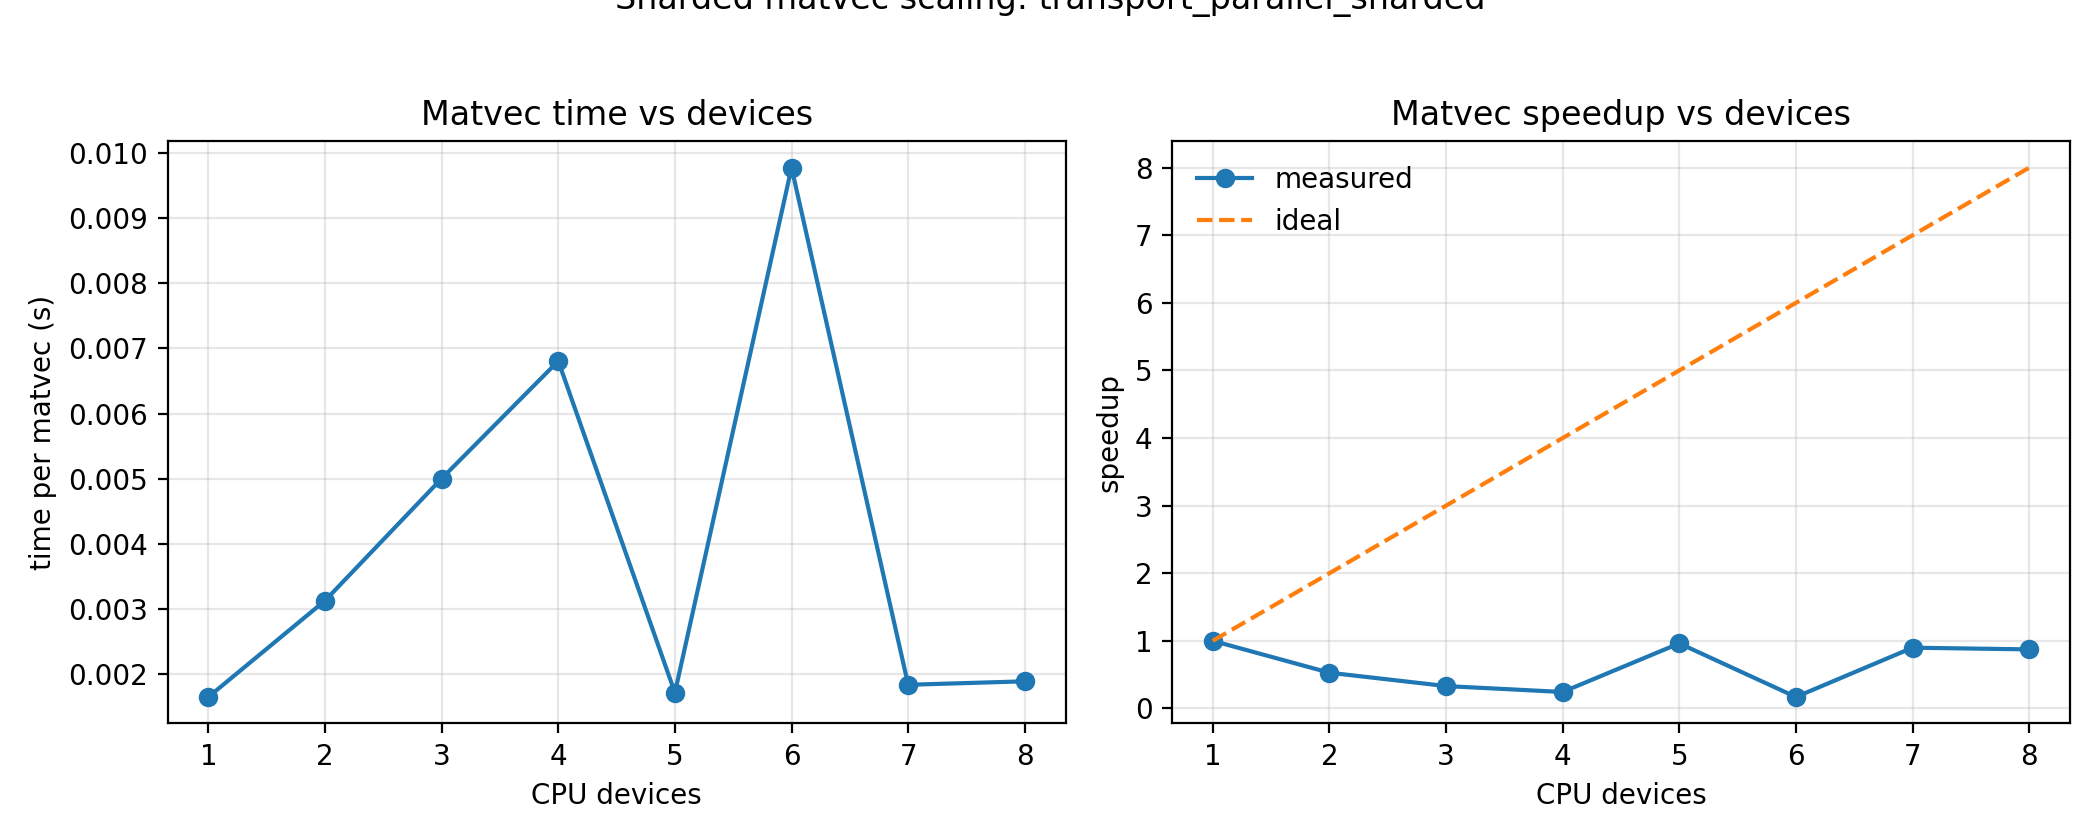
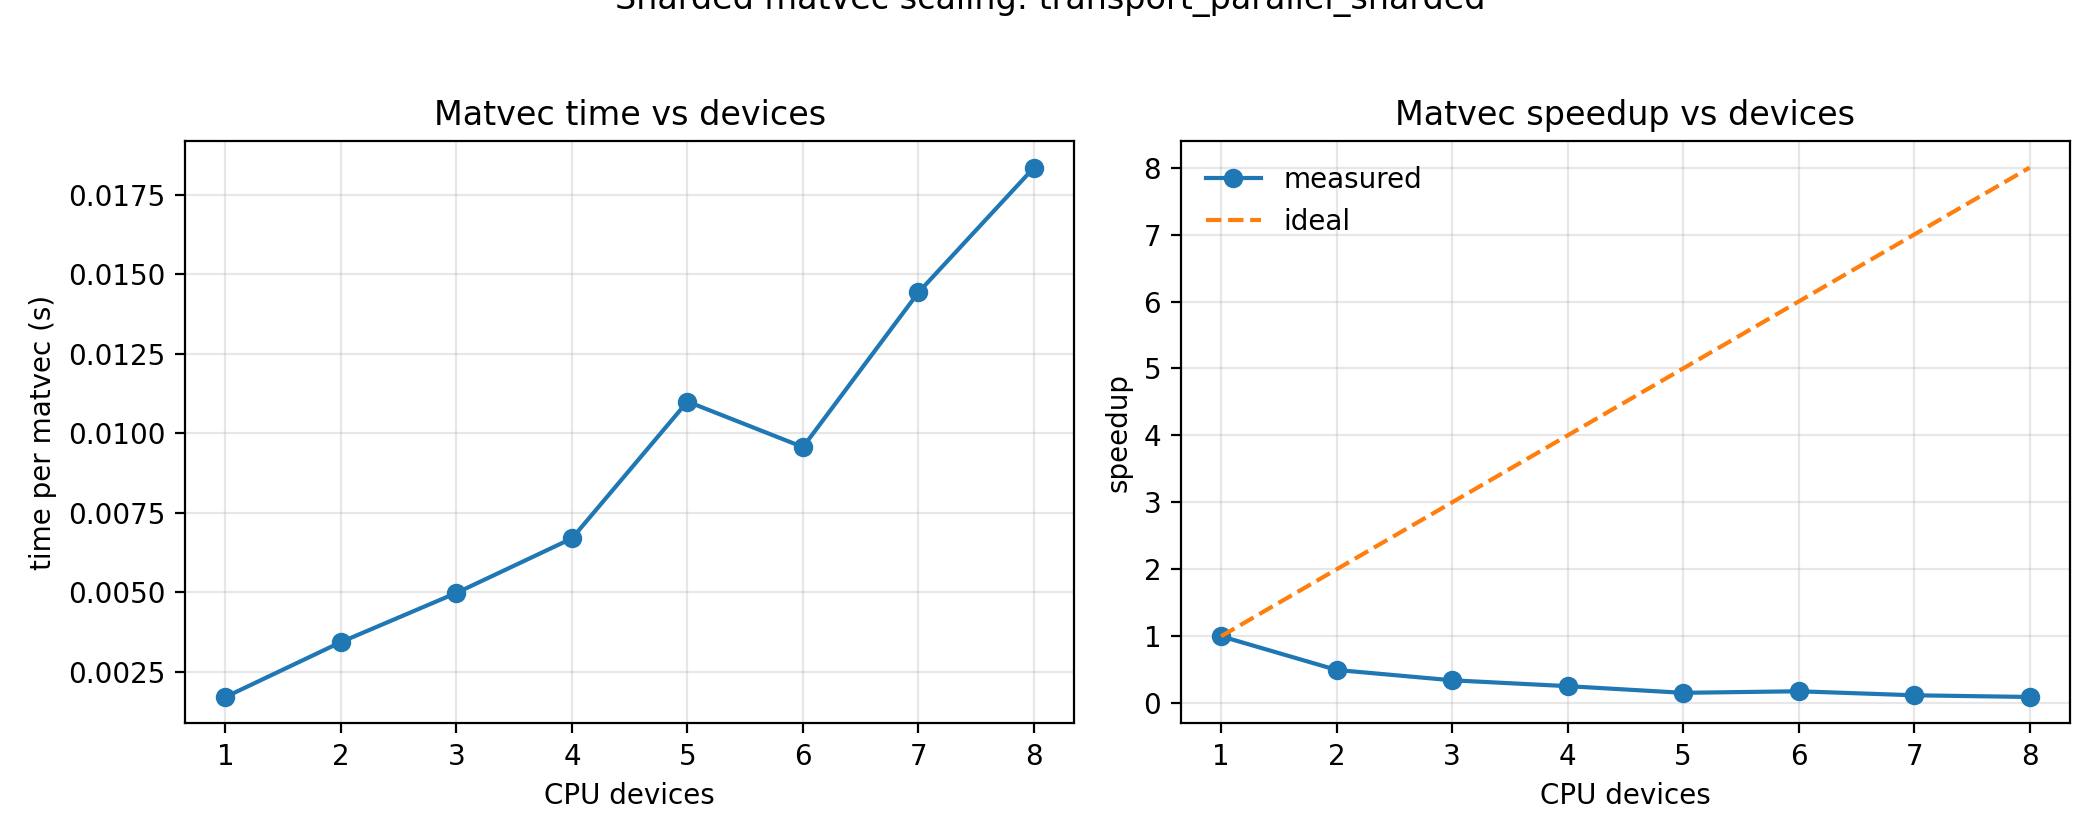
Enable x-axis sharding padding and update scaling

diff --git a/sfincs_jax/v3_system.py b/sfincs_jax/v3_system.py
@@ -36,6 +36,11 @@ from .magnetic_drifts import (
     MagneticDriftZetaV3Operator,
     MagneticDriftXiDotV3Operator,
 )
+from .collisions import (
+    PitchAngleScatteringV3Operator,
+    FokkerPlanckV3Operator,
+    FokkerPlanckV3Phi1Operator,
+)
 from .v3_fblock import V3FBlockOperator, apply_v3_fblock_operator, fblock_operator_from_namelist
 from .vmec_wout import psi_a_hat_from_wout, read_vmec_wout, vmec_interpolation
 
@@ -919,6 +924,14 @@ def _pad_2d(arr: jnp.ndarray, *, axis: str, pad: int, fill: float = 0.0) -> jnp.
     return arr
 
 
+def _pad_x_1d(arr: jnp.ndarray, pad: int, *, fill: float = 0.0) -> jnp.ndarray:
+    return _pad_1d(arr, pad, fill=fill)
+
+
+def _pad_x_square(arr: jnp.ndarray, pad: int) -> jnp.ndarray:
+    return _pad_square(arr, pad)
+
+
 def _pad_collisionless(op: CollisionlessV3Operator, *, axis: str, pad: int) -> CollisionlessV3Operator:
     if pad <= 0:
         return op
@@ -941,6 +954,12 @@ def _pad_collisionless(op: CollisionlessV3Operator, *, axis: str, pad: int) -> C
             b_hat_sup_zeta=_pad_2d_zeta(op.b_hat_sup_zeta, pad, fill=0.0),
             db_hat_dtheta=_pad_2d_zeta(op.db_hat_dtheta, pad, fill=0.0),
             db_hat_dzeta=_pad_2d_zeta(op.db_hat_dzeta, pad, fill=0.0),
+        )
+    if axis == "x":
+        return replace(
+            op,
+            x=_pad_x_1d(op.x, pad, fill=1.0),
+            n_xi_for_x=_pad_x_1d(op.n_xi_for_x, pad, fill=0),
         )
     return op
 
@@ -1084,6 +1103,8 @@ def _pad_magdrift_xidot(
             db_hat_sub_theta_dpsi_hat=_pad_2d_zeta(op.db_hat_sub_theta_dpsi_hat, pad, fill=0.0),
             db_hat_sub_psi_dtheta=_pad_2d_zeta(op.db_hat_sub_psi_dtheta, pad, fill=0.0),
         )
+    if axis == "x":
+        return replace(op, n_xi_for_x=_pad_x_1d(op.n_xi_for_x, pad, fill=0))
     return op
 
 
@@ -1110,6 +1131,8 @@ def _pad_er_xidot(op: ErXiDotV3Operator, *, axis: str, pad: int) -> ErXiDotV3Ope
             db_hat_dtheta=_pad_2d_zeta(op.db_hat_dtheta, pad, fill=0.0),
             db_hat_dzeta=_pad_2d_zeta(op.db_hat_dzeta, pad, fill=0.0),
         )
+    if axis == "x":
+        return replace(op, n_xi_for_x=_pad_x_1d(op.n_xi_for_x, pad, fill=0))
     return op
 
 
@@ -1139,6 +1162,42 @@ def _pad_er_xdot(op: ErXDotV3Operator, *, axis: str, pad: int) -> ErXDotV3Operat
     return op
 
 
+def _pad_pas(op: PitchAngleScatteringV3Operator, pad: int) -> PitchAngleScatteringV3Operator:
+    if pad <= 0:
+        return op
+    return replace(
+        op,
+        nu_d_hat=jnp.pad(op.nu_d_hat, ((0, 0), (0, pad)), constant_values=0.0),
+        n_xi_for_x=_pad_x_1d(op.n_xi_for_x, pad, fill=0),
+        coef=jnp.pad(op.coef, ((0, 0), (0, pad), (0, 0)), constant_values=0.0),
+        mask_xi=jnp.pad(op.mask_xi, ((0, pad), (0, 0)), constant_values=0.0),
+    )
+
+
+def _pad_fp(op: FokkerPlanckV3Operator, pad: int) -> FokkerPlanckV3Operator:
+    if pad <= 0:
+        return op
+    return replace(
+        op,
+        mat=jnp.pad(op.mat, ((0, 0), (0, 0), (0, 0), (0, pad), (0, pad)), constant_values=0.0),
+        n_xi_for_x=_pad_x_1d(op.n_xi_for_x, pad, fill=0),
+        mask_xi=jnp.pad(op.mask_xi, ((0, pad), (0, 0)), constant_values=0.0),
+    )
+
+
+def _pad_fp_phi1(op: FokkerPlanckV3Phi1Operator, pad: int) -> FokkerPlanckV3Phi1Operator:
+    if pad <= 0:
+        return op
+    return replace(
+        op,
+        k_nu=jnp.pad(op.k_nu, ((0, 0), (0, 0), (0, pad)), constant_values=0.0),
+        k_cd=jnp.pad(op.k_cd, ((0, 0), (0, 0), (0, pad), (0, pad)), constant_values=0.0),
+        k_ce=jnp.pad(op.k_ce, ((0, 0), (0, 0), (0, pad), (0, pad)), constant_values=0.0),
+        k_rosen=jnp.pad(op.k_rosen, ((0, 0), (0, 0), (0, 0), (0, pad), (0, pad)), constant_values=0.0),
+        n_xi_for_x=_pad_x_1d(op.n_xi_for_x, pad, fill=0),
+    )
+
+
 def _pad_fblock_operator(
     op: V3FBlockOperator, *, axis: str, pad: int
 ) -> V3FBlockOperator:
@@ -1158,8 +1217,12 @@ def _pad_fblock_operator(
     )
     er_xidot = _pad_er_xidot(op.er_xidot, axis=axis, pad=pad) if op.er_xidot is not None else None
     er_xdot = _pad_er_xdot(op.er_xdot, axis=axis, pad=pad) if op.er_xdot is not None else None
+    pas = _pad_pas(op.pas, pad) if (axis == "x" and op.pas is not None) else op.pas
+    fp = _pad_fp(op.fp, pad) if (axis == "x" and op.fp is not None) else op.fp
+    fp_phi1 = _pad_fp_phi1(op.fp_phi1, pad) if (axis == "x" and op.fp_phi1 is not None) else op.fp_phi1
     n_theta = int(op.n_theta + pad) if axis == "theta" else int(op.n_theta)
     n_zeta = int(op.n_zeta + pad) if axis == "zeta" else int(op.n_zeta)
+    n_x = int(op.n_x + pad) if axis == "x" else int(op.n_x)
     return replace(
         op,
         collisionless=collisionless,
@@ -1170,6 +1233,10 @@ def _pad_fblock_operator(
         magdrift_xidot=magdrift_xidot,
         er_xidot=er_xidot,
         er_xdot=er_xdot,
+        pas=pas,
+        fp=fp,
+        fp_phi1=fp_phi1,
+        n_x=n_x,
         n_theta=n_theta,
         n_zeta=n_zeta,
     )
@@ -1188,6 +1255,9 @@ def _pad_full_system_operator(op: V3FullSystemOperator, *, axis: str, pad: int) 
     fblock = _pad_fblock_operator(op.fblock, axis=axis, pad=pad)
     theta_weights = _pad_1d(op.theta_weights, pad, fill=0.0) if axis == "theta" else op.theta_weights
     zeta_weights = _pad_1d(op.zeta_weights, pad, fill=0.0) if axis == "zeta" else op.zeta_weights
+    x = _pad_x_1d(op.x, pad, fill=1.0) if axis == "x" else op.x
+    x_weights = _pad_x_1d(op.x_weights, pad, fill=0.0) if axis == "x" else op.x_weights
+    ddx = _pad_x_square(op.ddx, pad) if axis == "x" else op.ddx
     # d_hat appears in denominators for flux-surface averaging; use 1.0 to avoid 0/0.
     d_hat = _pad_2d(op.d_hat, axis=axis, pad=pad, fill=1.0)
     b_hat = _pad_2d(op.b_hat, axis=axis, pad=pad, fill=1.0)
@@ -1212,6 +1282,9 @@ def _pad_full_system_operator(op: V3FullSystemOperator, *, axis: str, pad: int) 
         b_hat_sub_theta=b_hat_sub_theta,
         b_hat_sub_zeta=b_hat_sub_zeta,
         phi1_hat_base=phi1_hat_base,
+        x=x,
+        x_weights=x_weights,
+        ddx=ddx,
     )
     _PADDED_OPERATOR_CACHE[key] = (weakref.ref(op), padded)
     return padded
@@ -1230,8 +1303,10 @@ def _pad_full_vector(
     f = x_full[: op.f_size].reshape(op.fblock.f_shape)
     if axis == "theta":
         f_pad = jnp.pad(f, ((0, 0), (0, 0), (0, 0), (0, pad), (0, 0)))
-    else:
+    elif axis == "zeta":
         f_pad = jnp.pad(f, ((0, 0), (0, 0), (0, 0), (0, 0), (0, pad)))
+    else:
+        f_pad = jnp.pad(f, ((0, 0), (0, pad), (0, 0), (0, 0), (0, 0)))
     f_pad_flat = f_pad.reshape((-1,))
     rest = x_full[op.f_size :]
     if op.include_phi1:
@@ -1239,14 +1314,25 @@ def _pad_full_vector(
         phi1 = rest[:phi1_size].reshape((op.n_theta, op.n_zeta))
         if axis == "theta":
             phi1_pad = jnp.pad(phi1, ((0, pad), (0, 0)))
-        else:
+        elif axis == "zeta":
             phi1_pad = jnp.pad(phi1, ((0, 0), (0, pad)))
+        else:
+            phi1_pad = phi1
         phi1_pad_flat = phi1_pad.reshape((-1,))
         lam = rest[phi1_size : phi1_size + 1]
         extra = rest[op.phi1_size :]
+        if axis == "x" and int(op.constraint_scheme) == 2:
+            extra = extra.reshape((op.n_species, op.n_x))
+            extra = jnp.pad(extra, ((0, 0), (0, pad)))
+            extra = extra.reshape((-1,))
         rest_pad = jnp.concatenate([phi1_pad_flat, lam, extra])
     else:
-        rest_pad = rest
+        if axis == "x" and int(op.constraint_scheme) == 2:
+            extra = rest.reshape((op.n_species, op.n_x))
+            extra = jnp.pad(extra, ((0, 0), (0, pad)))
+            rest_pad = extra.reshape((-1,))
+        else:
+            rest_pad = rest
     return jnp.concatenate([f_pad_flat, rest_pad])
 
 
@@ -1263,8 +1349,10 @@ def _unpad_full_vector(
     f_pad = x_pad[: op_pad.f_size].reshape(op_pad.fblock.f_shape)
     if axis == "theta":
         f = f_pad[:, :, :, : op.n_theta, :]
-    else:
+    elif axis == "zeta":
         f = f_pad[:, :, :, :, : op.n_zeta]
+    else:
+        f = f_pad[:, : op.n_x, :, :, :]
     f_flat = f.reshape((-1,))
     rest_pad = x_pad[op_pad.f_size :]
     if op.include_phi1:
@@ -1272,14 +1360,23 @@ def _unpad_full_vector(
         phi1_pad = rest_pad[:phi1_size_pad].reshape((op_pad.n_theta, op_pad.n_zeta))
         if axis == "theta":
             phi1 = phi1_pad[: op.n_theta, :]
-        else:
+        elif axis == "zeta":
             phi1 = phi1_pad[:, : op.n_zeta]
+        else:
+            phi1 = phi1_pad
         phi1_flat = phi1.reshape((-1,))
         lam = rest_pad[phi1_size_pad : phi1_size_pad + 1]
         extra = rest_pad[op_pad.phi1_size :]
+        if axis == "x" and int(op.constraint_scheme) == 2:
+            extra = extra.reshape((op.n_species, op_pad.n_x))
+            extra = extra[:, : op.n_x].reshape((-1,))
         rest = jnp.concatenate([phi1_flat, lam, extra])
     else:
-        rest = rest_pad
+        if axis == "x" and int(op.constraint_scheme) == 2:
+            extra = rest_pad.reshape((op.n_species, op_pad.n_x))
+            rest = extra[:, : op.n_x].reshape((-1,))
+        else:
+            rest = rest_pad
     return jnp.concatenate([f_flat, rest])
 
 
@@ -1426,7 +1523,7 @@ def apply_v3_full_system_operator_cached(
                 else:
                     n_dim = int(op.n_x)
                 pad = (-n_dim) % max(1, n_devices)
-                if pad != 0 and shard_axis in {"theta", "zeta"} and _shard_pad_enabled():
+                if pad != 0 and shard_axis in {"theta", "zeta", "x"} and _shard_pad_enabled():
                     op_pad = _pad_full_system_operator(op, axis=shard_axis, pad=pad)
                     x_pad = _pad_full_vector(x_full, op=op, op_pad=op_pad, axis=shard_axis, pad=pad)
                     fn = _get_apply_full_system_operator_pjit(_operator_signature_cached(op_pad), shard_axis)

diff --git a/sfincs_jax/io.py b/sfincs_jax/io.py
@@ -39,6 +39,9 @@ class ExportFConfig:
     n_export_x: int
     n_export_xi: int
     map_theta: np.ndarray
+    map_zeta: np.ndarray
+    map_x: np.ndarray
+    map_xi: np.ndarray
 
 
 _OUTPUT_GEOM_CACHE: dict[tuple[object, ...], dict[str, np.ndarray]] = {}

diff --git a/docs/parallelism.rst b/docs/parallelism.rst
@@ -304,8 +304,9 @@ On GPUs, JAX will automatically see all local devices.
   can still shard without changing outputs.
 - ``x`` sharding is available as a fallback when odd ``Ntheta``/``Nzeta`` block
   theta/zeta sharding. Use ``SFINCS_JAX_MATVEC_SHARD_AXIS=x`` or set
-  ``SFINCS_JAX_MATVEC_SHARD_PREFER_X=1`` with a large ``Nx``. (``Nx`` must be
-  divisible by the device count; no padding is applied on the x axis.)
+  ``SFINCS_JAX_MATVEC_SHARD_PREFER_X=1`` with a large ``Nx``. With
+  ``SFINCS_JAX_SHARD_PAD=1`` (default), `sfincs_jax` pads ``Nx`` to the next
+  multiple of the device count so x‑sharding can still activate.
 - When sharding is active and no explicit RHSMode=1 preconditioner is requested,
   `sfincs_jax` defaults to a **local line preconditioner** along the sharded
   axis (theta‑line or zeta‑line). This keeps the preconditioner apply local
@@ -342,14 +343,13 @@ for **very large grids** or multi‑GPU nodes.
 X‑sharded matvec scaling (single RHS)
 -------------------------------------
 
-X‑sharding avoids the odd‑grid constraint but requires ``Nx`` to be divisible
-by the device count. For the same input (``Nx=12``), device counts 5, 7, and 8
-fall back to the unsharded path and therefore match single‑device timings.
+X‑sharding avoids the odd‑grid constraint. With ``SFINCS_JAX_SHARD_PAD=1``
+(default), `sfincs_jax` pads ``Nx`` to the next multiple of the device count,
+so all device counts can shard without falling back.
 
-Latest run (cache warm, Macbook M3 Max, x‑sharded):
-1 device 1.65 ms, 2 devices 3.13 ms, 3 devices 5.00 ms, 4 devices 6.81 ms,
-5 devices 1.72 ms (fallback), 6 devices 9.77 ms,
-7 devices 1.84 ms (fallback), 8 devices 1.89 ms (fallback).
+Latest run (cache warm, Macbook M3 Max, x‑sharded with padding):
+1 device 1.70 ms, 2 devices 3.43 ms, 3 devices 4.98 ms, 4 devices 6.69 ms,
+5 devices 11.00 ms, 6 devices 9.57 ms, 7 devices 14.44 ms, 8 devices 18.36 ms.
 
 .. figure:: _static/figures/parallel/transport_sharded_matvec_x_scaling.png
    :alt: X-sharded matvec scaling on Macbook M3 Max
@@ -399,13 +399,14 @@ Reproduce:
    python examples/performance/benchmark_sharded_matvec_scaling.py \
      --input examples/performance/transport_parallel_sharded.input.namelist \
      --axis x \
+     --pad \
      --devices 1 2 3 4 5 6 7 8 \
      --repeats 1 \
      --nrep 2000 \
      --global-warmup 1
 
 Sharded solve scaling (distributed GMRES)
-----------------------------------------
+-----------------------------------------
 
 We also benchmarked a **single RHSMode=1 solve** with theta‑sharded matvecs and
 distributed GMRES enabled:
@@ -418,11 +419,11 @@ distributed GMRES enabled:
      --global-warmup 1
 
 Input: `examples/performance/rhsmode1_sharded.input.namelist`
-(``Ntheta=63, Nzeta=63, Nxi=10, NL=6, Nx=10``).
+(``Ntheta=95, Nzeta=95, Nxi=12, NL=8, Nx=16``).
 
 Latest run (cache warm, Macbook M3 Max):
-1 device 0.75 s, 2 devices 3.28 s, 3 devices 4.58 s, 4 devices 3.54 s,
-5 devices 3.56 s, 6 devices 3.63 s, 7 devices 5.00 s, 8 devices 4.25 s.
+1 device 0.90 s, 2 devices 5.13 s, 3 devices 5.15 s, 4 devices 5.29 s,
+5 devices 6.36 s, 6 devices 5.48 s, 7 devices 7.50 s, 8 devices 5.55 s.
 
 Because SFINCS enforces **odd** ``Ntheta``/``Nzeta``, theta/zeta sharding only
 activates when the device count divides the sharded dimension (e.g. 1, 3, 7 for

diff --git a/README.md b/README.md
@@ -145,8 +145,9 @@ python examples/performance/benchmark_sharded_matvec_scaling.py \
 
 `SFINCS_JAX_MATVEC_SHARD_AXIS=x` provides an alternate sharding axis when odd
 ``Ntheta``/``Nzeta`` grids limit theta/zeta sharding; see `docs/parallelism.rst`
-for details and usage notes. For the same input (``Nx=12``), device counts that
-do not divide 12 fall back to the unsharded path.
+for details and usage notes. With `SFINCS_JAX_SHARD_PAD=1` (default), `sfincs_jax`
+pads ``Nx`` to the next multiple of the device count so x‑sharding does not
+fallback on non‑divisible ``Nx``.
 
 ![X-sharded matvec scaling](docs/_static/figures/parallel/transport_sharded_matvec_x_scaling.png)
 
@@ -156,6 +157,7 @@ Reproduce the x‑sharded scaling figure:
 python examples/performance/benchmark_sharded_matvec_scaling.py \
   --input examples/performance/transport_parallel_sharded.input.namelist \
   --axis x \
+  --pad \
   --devices 1 2 3 4 5 6 7 8 \
   --repeats 1 \
   --nrep 2000 \

diff --git a/docs/usage.rst b/docs/usage.rst
@@ -399,8 +399,9 @@ performance without changing the input file:
 - ``SFINCS_JAX_SHARD``: shorthand to disable auto sharding even when
   ``SFINCS_JAX_CORES`` is set. Use ``0``/``false`` to keep single‑device matvecs.
 - ``SFINCS_JAX_SHARD_PAD``: pad odd ``Ntheta``/``Nzeta`` internally so theta/zeta
-  sharding can use even device counts (default: enabled). Padding adds ghost planes
-  with zero weights and does not change outputs.
+  sharding can use even device counts, and pad ``Nx`` when x‑sharding is requested
+  but ``Nx`` is not divisible by the device count (default: enabled). Padding adds
+  ghost planes with zero weights and does not change outputs.
 
 - ``SFINCS_JAX_GMRES_DISTRIBUTED``: enable distributed GMRES when using ``flat``
   sharding. Set to ``1`` to run the Krylov solver under `pjit`, keeping vectors
